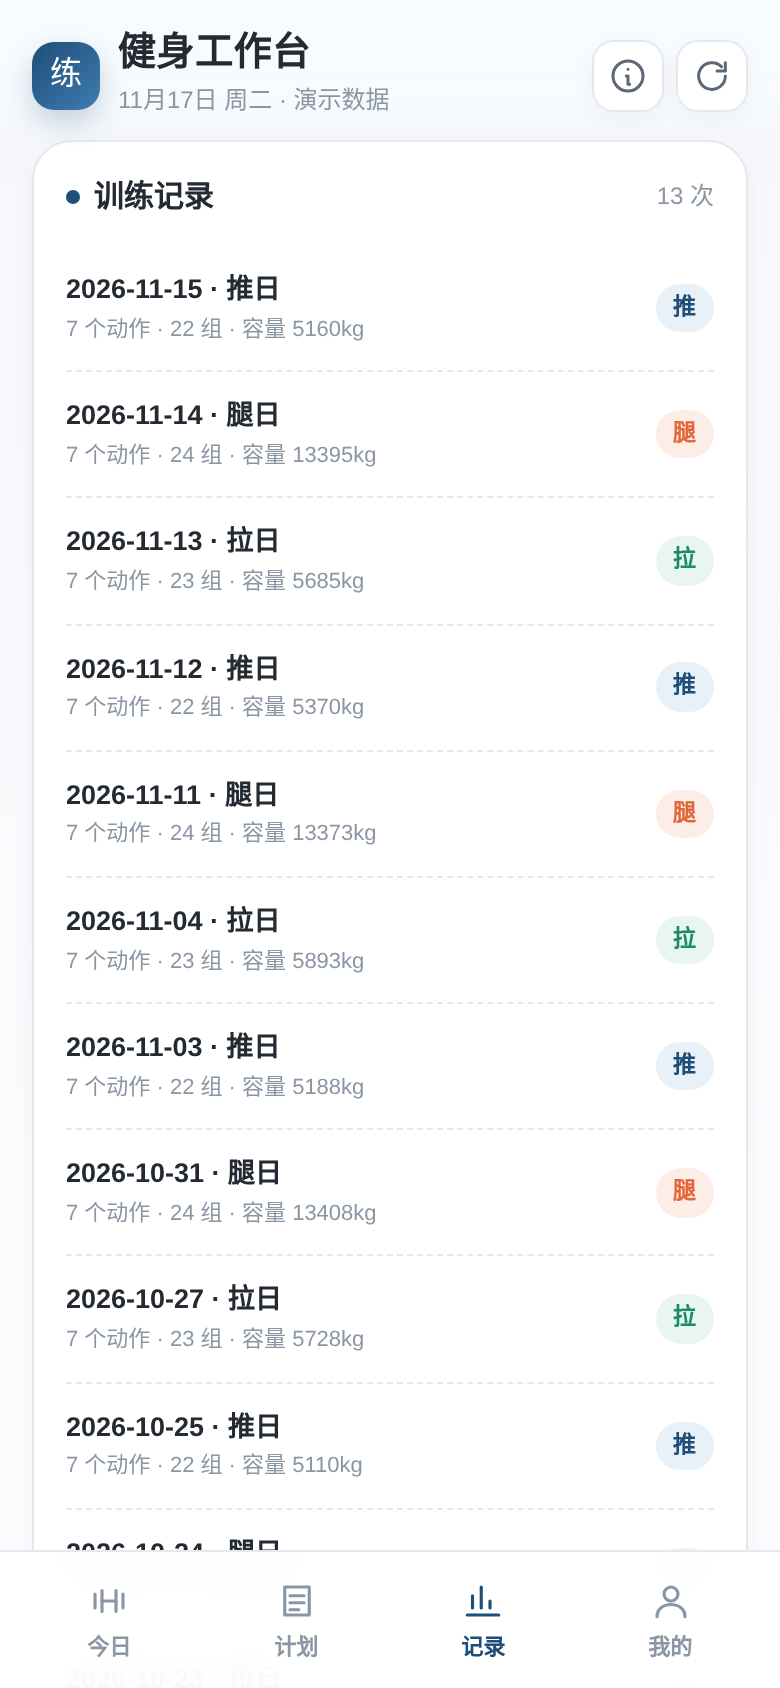
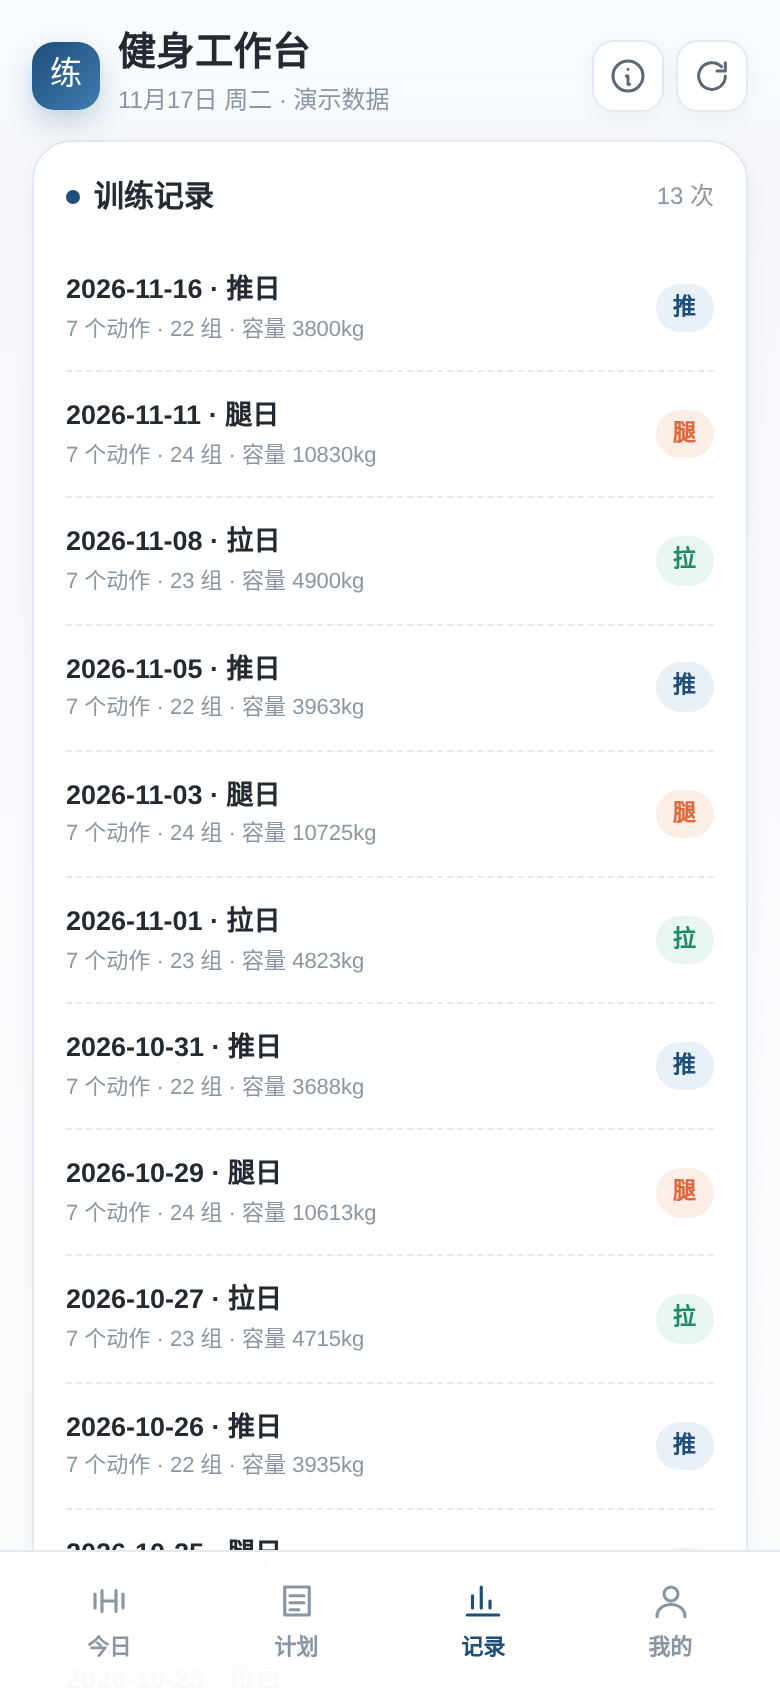
清理演示数据：移除全部个人痕迹，改用通用示例数据

diff --git a/fitness-workbench.html b/fitness-workbench.html
@@ -356,39 +356,37 @@ const TYPE_META={
 };
 const PLANS={
   '推':[
-    {n:'杠铃卧推',s:4,r:'8-10',w:60},
-    {n:'上斜哑铃卧推',s:3,r:'10-12',w:22},
-    {n:'坐姿哑铃推肩',s:3,r:'10-12',w:16},
-    {n:'哑铃侧平举',s:3,r:'12-15',w:8},
-    {n:'绳索下压',s:3,r:'12',w:25},
+    {n:'杠铃卧推',s:4,r:'8-10',w:40},
+    {n:'上斜哑铃卧推',s:3,r:'10-12',w:16},
+    {n:'坐姿哑铃推肩',s:3,r:'10-12',w:12},
+    {n:'哑铃侧平举',s:3,r:'12-15',w:6},
+    {n:'绳索下压',s:3,r:'12',w:20},
     {n:'悬垂举腿',s:3,r:'12-15',w:0},
-    {n:'绳索跪姿卷腹',s:3,r:'15',w:20}
+    {n:'绳索跪姿卷腹',s:3,r:'15',w:15}
   ],
   '拉':[
     {n:'引体向上',s:4,r:'6-10',w:0},
-    {n:'杠铃划船',s:4,r:'8-10',w:50},
-    {n:'高位下拉',s:3,r:'10-12',w:45},
-    {n:'坐姿绳索划船',s:3,r:'12',w:40},
-    {n:'面拉',s:3,r:'15',w:20},
-    {n:'哑铃弯举',s:3,r:'12',w:10},
+    {n:'杠铃划船',s:4,r:'8-10',w:40},
+    {n:'高位下拉',s:3,r:'10-12',w:40},
+    {n:'坐姿绳索划船',s:3,r:'12',w:35},
+    {n:'面拉',s:3,r:'15',w:15},
+    {n:'哑铃弯举',s:3,r:'12',w:8},
     {n:'悬垂举腿',s:3,r:'12-15',w:0}
   ],
   '腿':[
-    {n:'杠铃深蹲',s:4,r:'8-10',w:70},
-    {n:'罗马尼亚硬拉',s:4,r:'10',w:60},
-    {n:'腿举',s:3,r:'12-15',w:100},
-    {n:'腿屈伸',s:3,r:'15',w:40},
-    {n:'坐姿腿弯举',s:3,r:'15',w:35},
-    {n:'站姿提踵',s:4,r:'15-20',w:30},
+    {n:'杠铃深蹲',s:4,r:'8-10',w:60},
+    {n:'罗马尼亚硬拉',s:4,r:'10',w:50},
+    {n:'腿举',s:3,r:'12-15',w:80},
+    {n:'腿屈伸',s:3,r:'15',w:30},
+    {n:'坐姿腿弯举',s:3,r:'15',w:25},
+    {n:'站姿提踵',s:4,r:'15-20',w:20},
     {n:'悬垂举腿',s:3,r:'12-15',w:0}
   ]
 };
 const SUPPS=[
+  {n:'蛋白粉',d:'30g',t:'练后'},
   {n:'肌酸',d:'5g',t:'早餐后'},
-  {n:'分离乳清',d:'30g',t:'练后'},
-  {n:'复合维生素',d:'1粒',t:'早餐后'},
-  {n:'维生素D3',d:'1粒',t:'午餐后'},
-  {n:'鱼油',d:'2粒',t:'晚餐后'}
+  {n:'复合维生素',d:'1粒',t:'早餐后'}
 ];
 const QUEUE=['推','拉','腿'];
 
@@ -414,14 +412,14 @@ function demoData(){
     todayType:'', today:{},
     sessions,
     body:[
-      {date:ymd(new Date(t.getTime()-20*DAY)),weight:69.5,bf:18.7,muscle:54.5},
-      {date:ymd(new Date(t.getTime()-13*DAY)),weight:70.2,bf:18.2,muscle:55.0},
-      {date:ymd(new Date(t.getTime()-6*DAY)),weight:70.8,bf:17.8,muscle:55.4},
-      {date:ymd(new Date(t.getTime()-1*DAY)),weight:70.8,bf:17.6,muscle:55.7}
+      {date:ymd(new Date(t.getTime()-20*DAY)),weight:75.0,bf:22.4,muscle:52.0},
+      {date:ymd(new Date(t.getTime()-13*DAY)),weight:75.4,bf:22.0,muscle:52.2},
+      {date:ymd(new Date(t.getTime()-6*DAY)),weight:74.8,bf:21.7,muscle:52.5},
+      {date:ymd(new Date(t.getTime()-1*DAY)),weight:75.2,bf:21.5,muscle:52.6}
     ],
     measures:[
-      {date:ymd(new Date(t.getTime()-24*DAY)),chest:96,waist:80,arm:33,thigh:56},
-      {date:ymd(new Date(t.getTime()-10*DAY)),chest:97.5,waist:79,arm:33.5,thigh:57}
+      {date:ymd(new Date(t.getTime()-24*DAY)),chest:100,waist:84,arm:35,thigh:58},
+      {date:ymd(new Date(t.getTime()-10*DAY)),chest:100.5,waist:83.5,arm:35.2,thigh:58.3}
     ],
     supps:{},
     startDate:ymd(new Date(t.getTime()-27*DAY))
